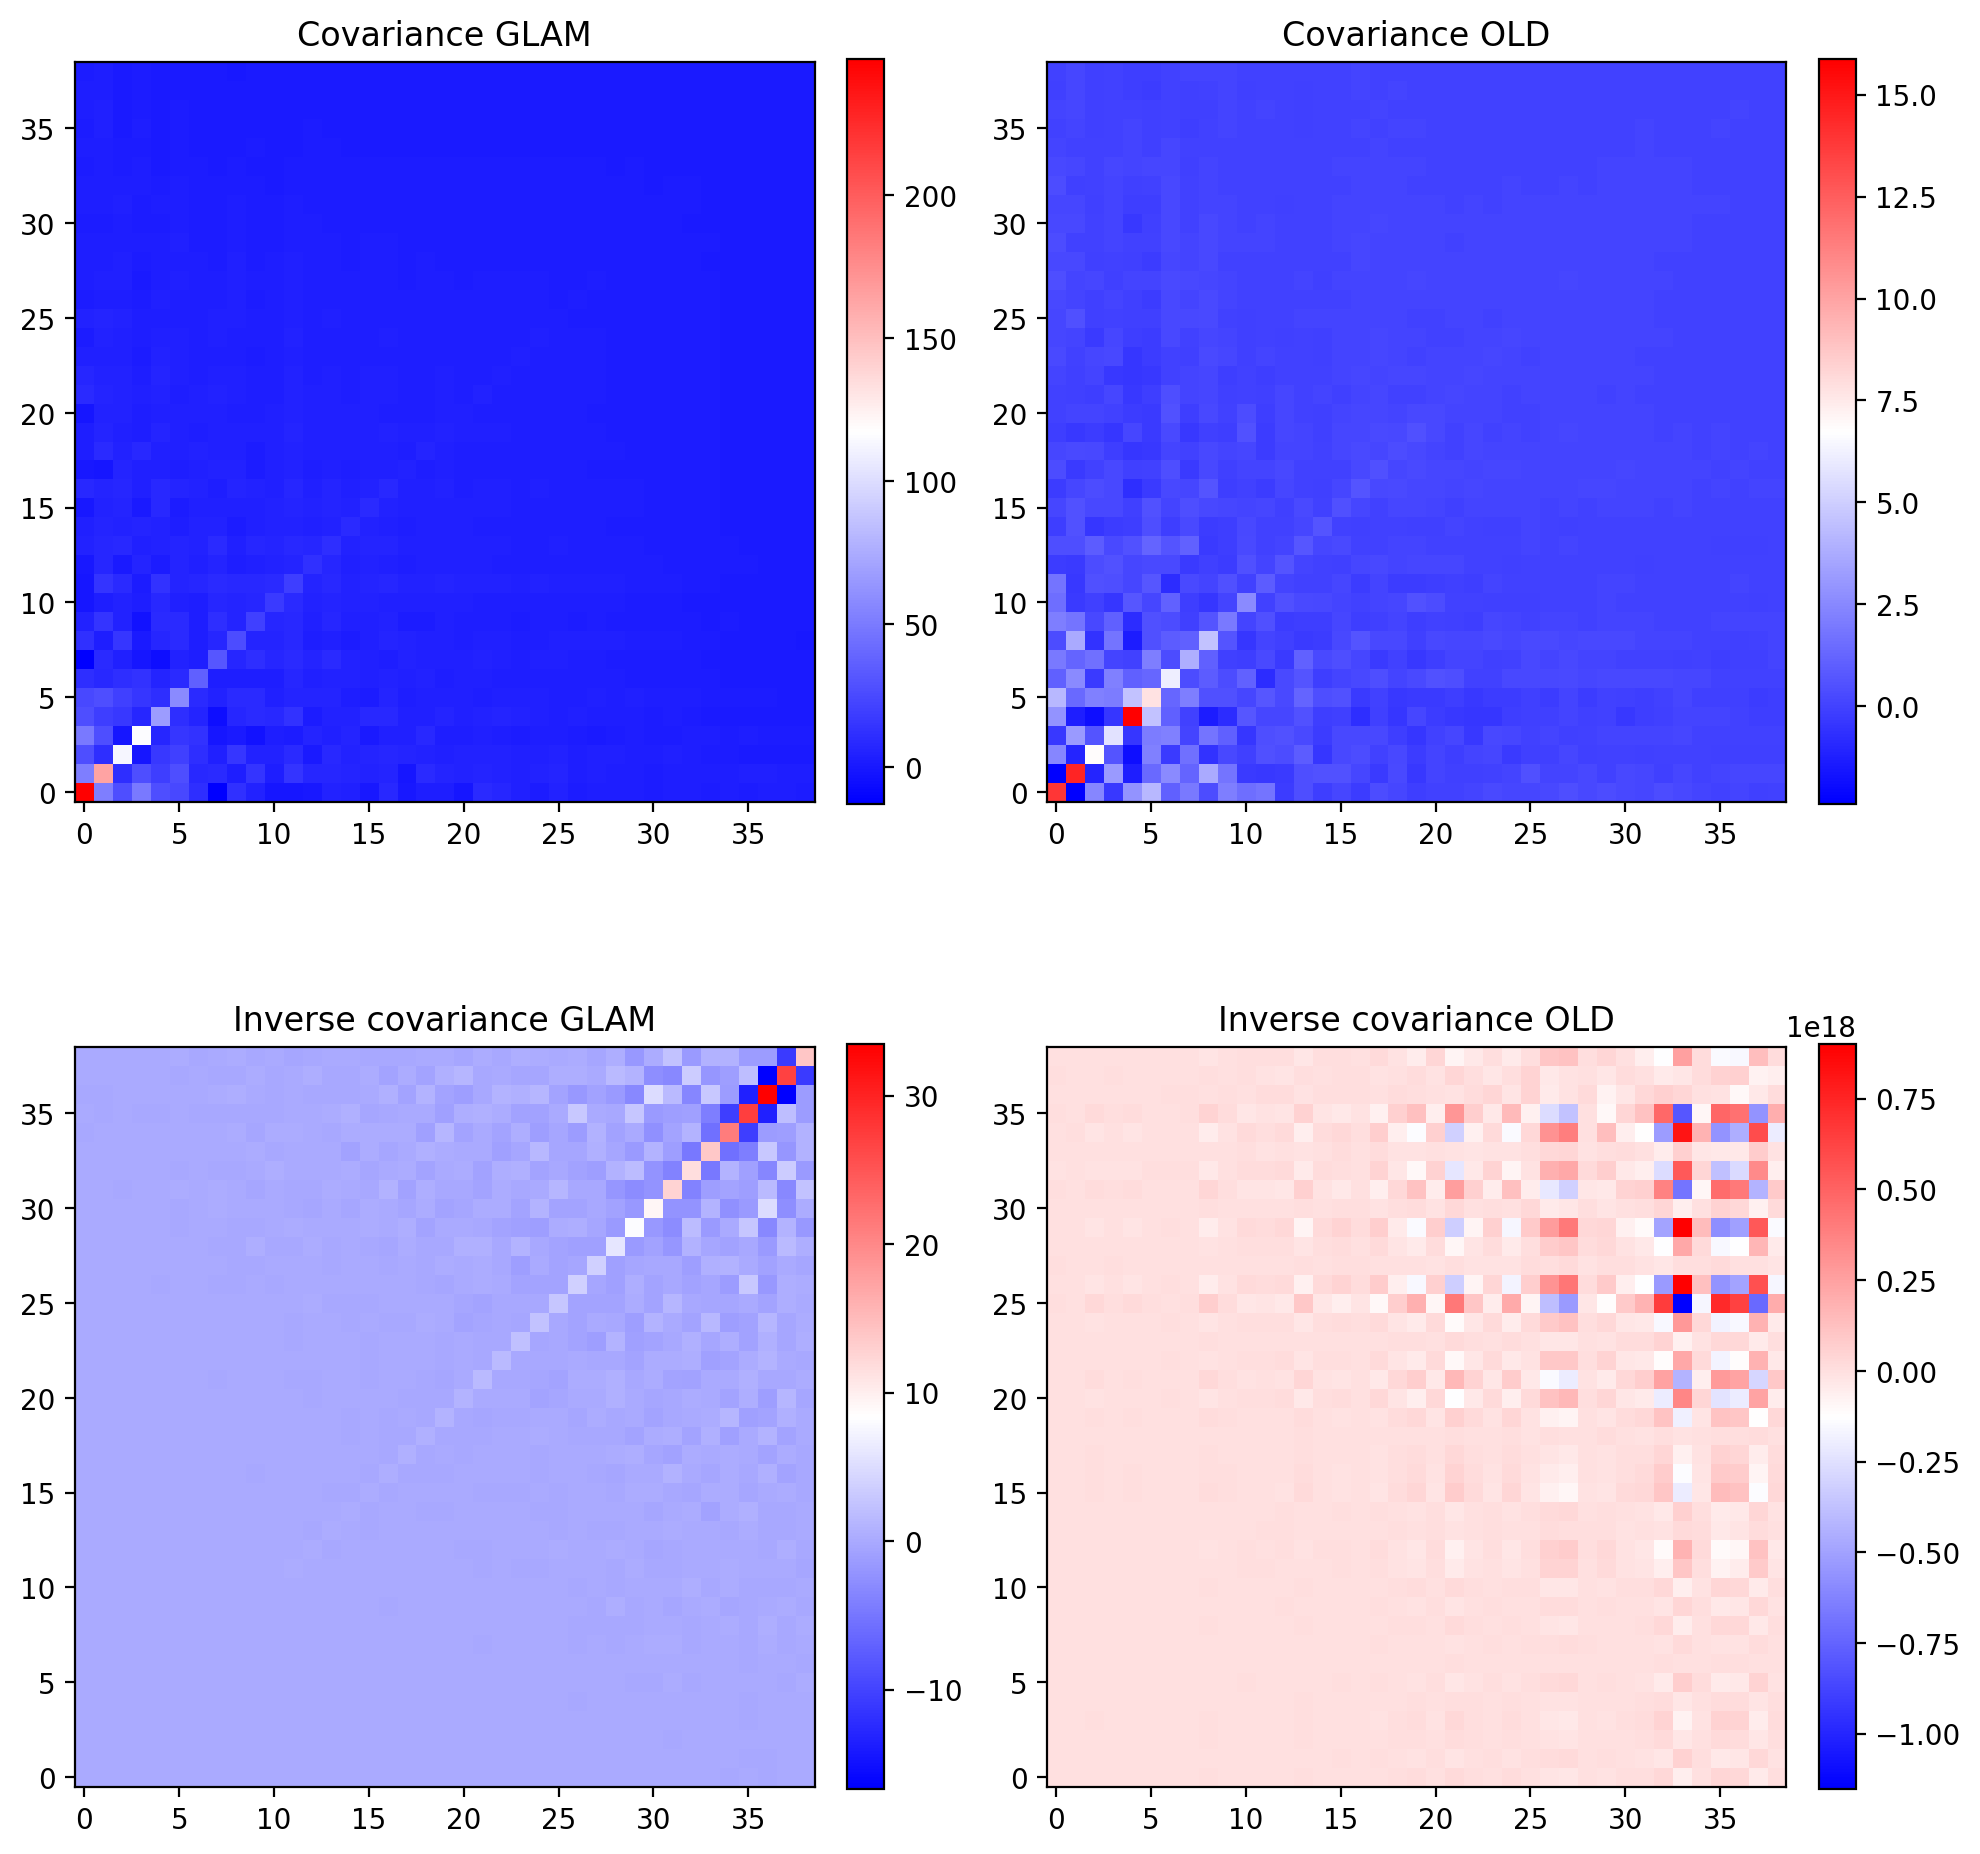
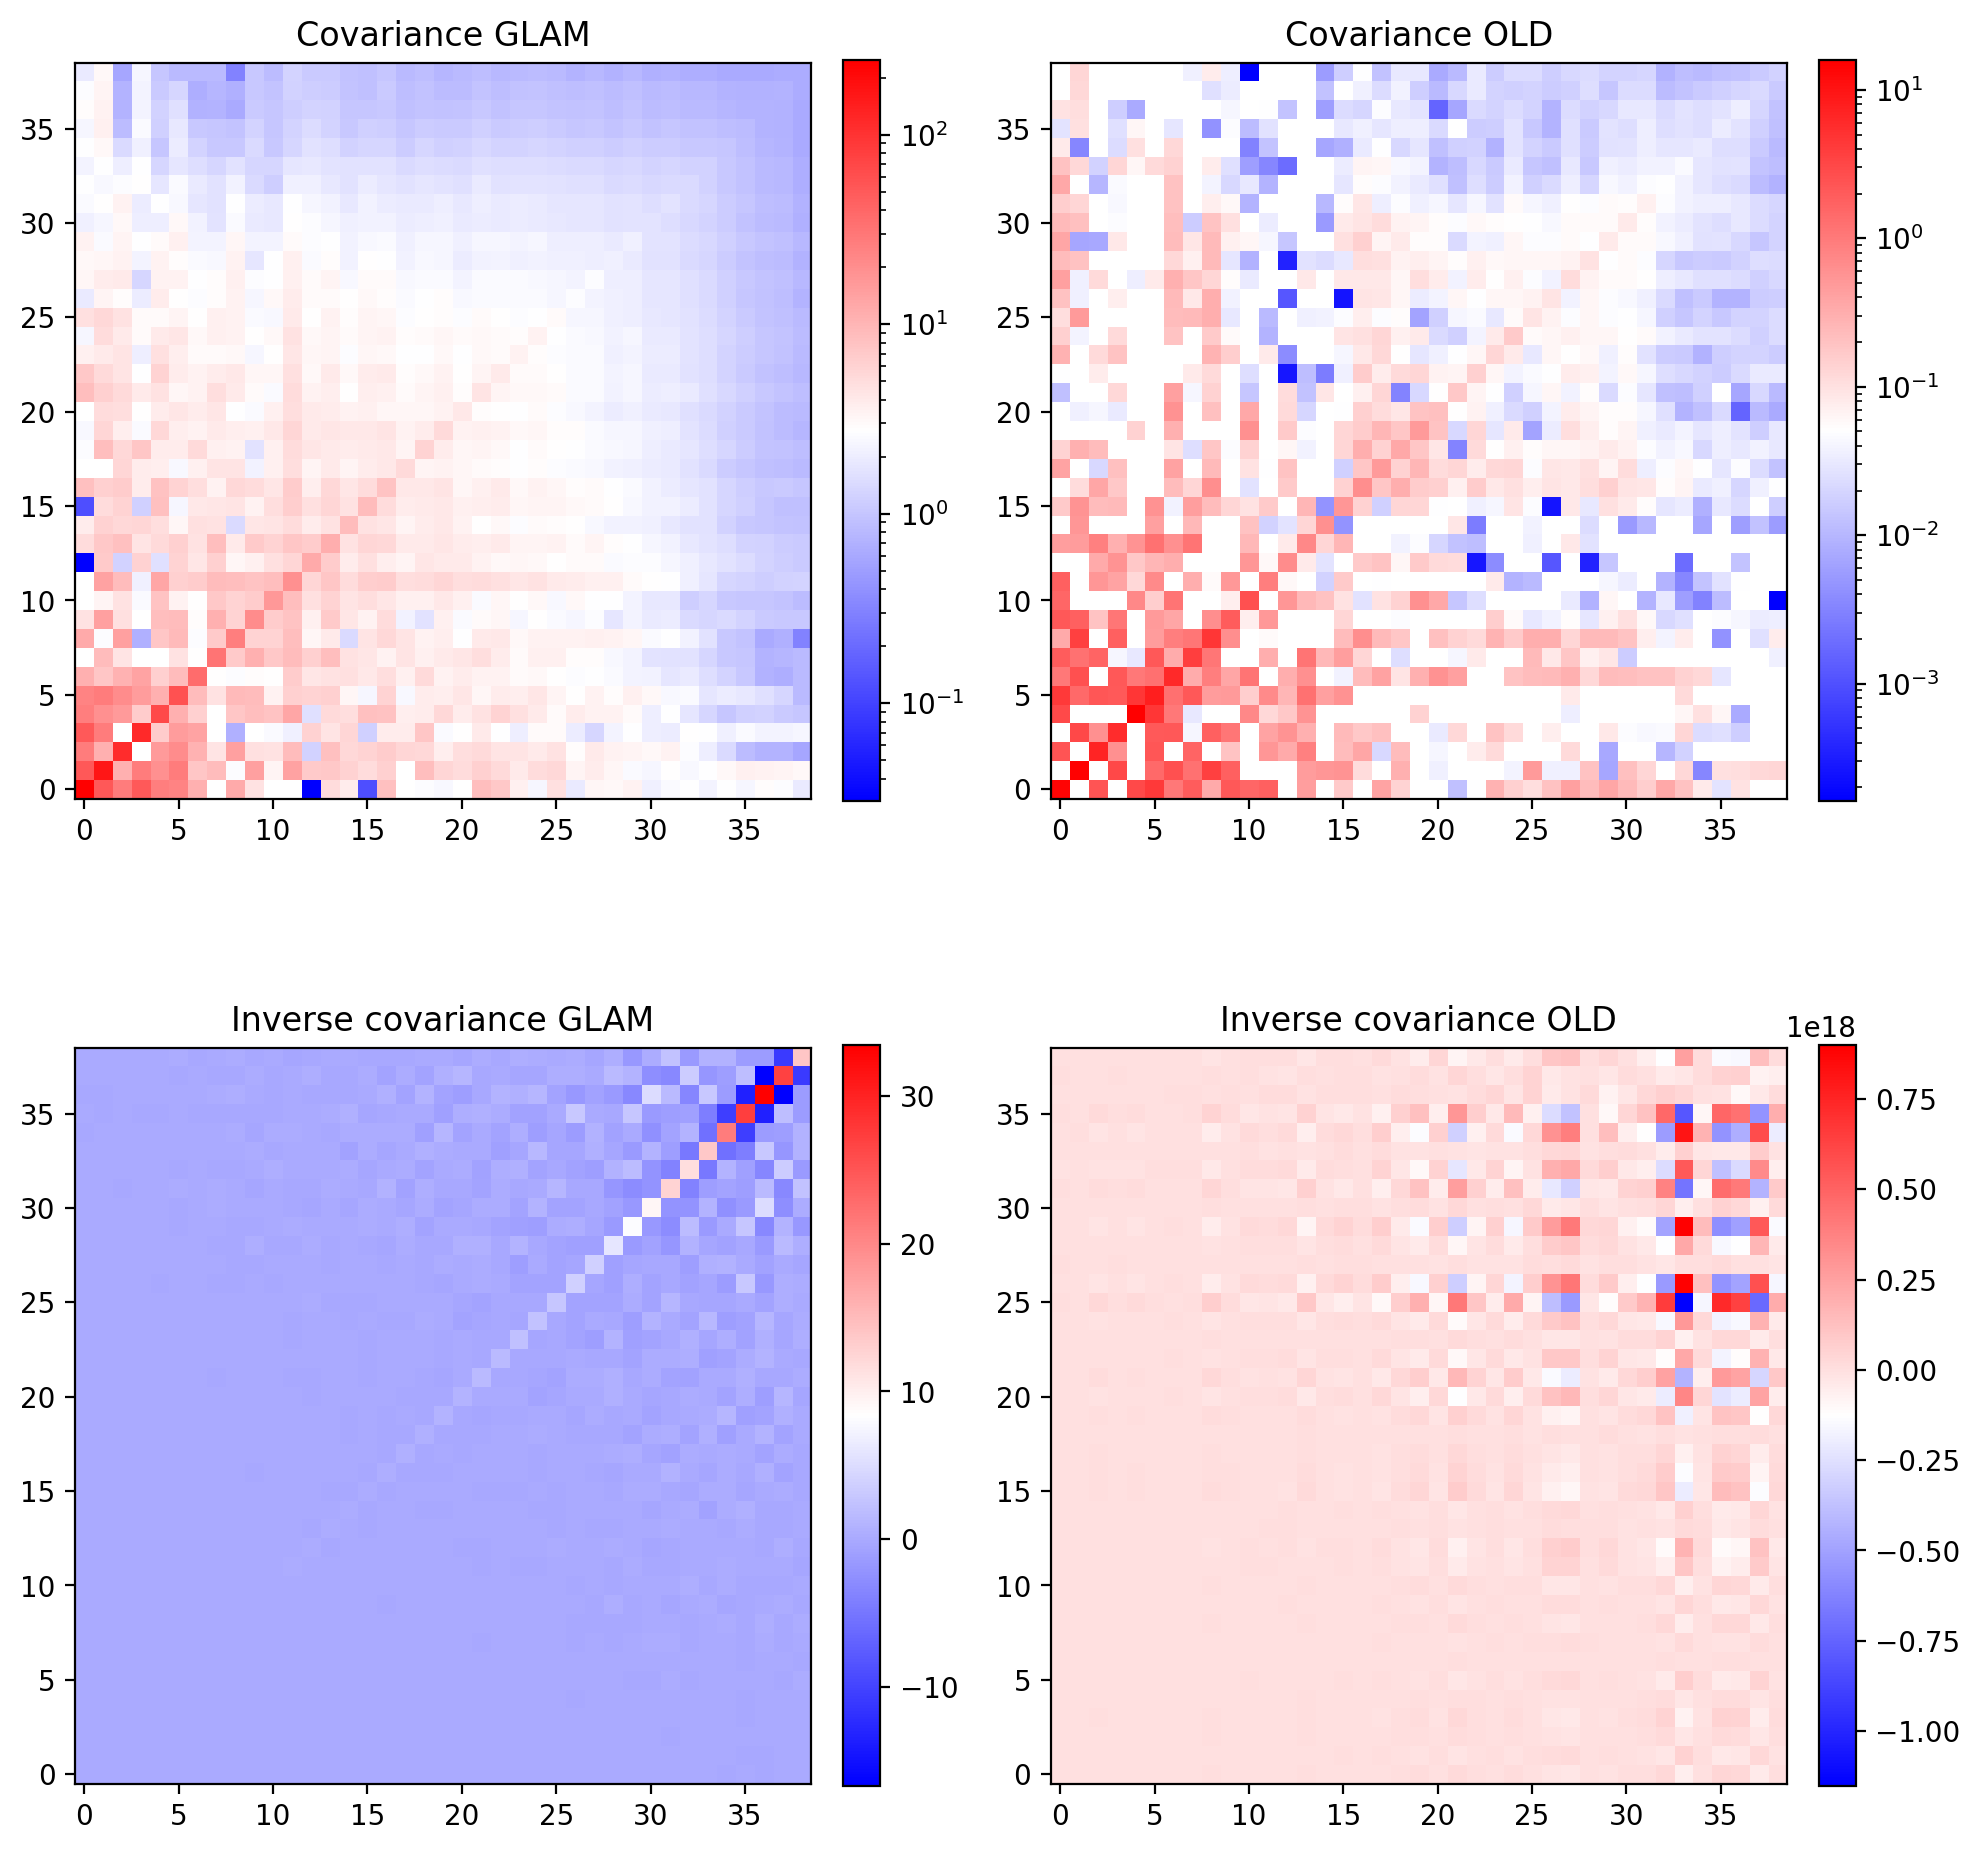
log scale to cov

diff --git a/HaloModel/HOD_and_cosmo_emulation/GLAM/cov_plot.py b/HaloModel/HOD_and_cosmo_emulation/GLAM/cov_plot.py
@@ -2,6 +2,7 @@ import numpy as np
 from pathlib import Path
 from mpl_toolkits.axes_grid1 import make_axes_locatable
 import matplotlib.pyplot as plt
+from matplotlib.colors import LogNorm 
 from matplotlib import gridspec
 
 DATAPATH     = Path(f"/mn/stornext/d5/data/vetleav/HOD_AbacusData/inference_data")
@@ -90,10 +91,12 @@ def compare_cov_sz_and_cov_GLAM(cov_GLAM, cov_OLD):
     ax2.set_title("Inverse covariance GLAM")
     ax3.set_title("Inverse covariance OLD")
 
-    im0 = ax0.imshow(cov_GLAM, origin="lower", cmap='bwr')
-    im1 = ax1.imshow(cov_OLD, origin="lower", cmap='bwr')
+    # im0 = ax0.imshow(np.log(cov_GLAM), origin="lower", cmap='bwr', interpolation="none")
+    im0 = ax0.imshow(cov_GLAM, origin="lower", cmap='bwr', norm=LogNorm())
+    im1 = ax1.imshow(cov_OLD, origin="lower", cmap='bwr', norm=LogNorm())
     im2 = ax2.imshow(cov_inv_GLAM, origin="lower", cmap='bwr')
     im3 = ax3.imshow(cov_inv_OLD, origin="lower", cmap='bwr')
+    
 
     fig.colorbar(im0, fraction=0.046, pad=0.04)
     fig.colorbar(im1, fraction=0.046, pad=0.04)
@@ -114,11 +117,21 @@ def compare_cov_sz_and_cov_GLAM(cov_GLAM, cov_OLD):
         fig.clf()
 
 
+def check_cov(cov):
+    cond = np.linalg.cond(cov)
+    eigenvalues, _ = np.linalg.eig(cov)
+    print(f"{eigenvalues=}")
+    print(f"Condition number: {cond}")
+    print()
+
 cov_sz, corr_sz = load_cov_corr("wp_fiducial_sz")
 cov_GLAM, corr_GLAM = load_cov_corr("wp_fiducial_MGGLAM")
 
-plot_cov_cov_inv(cov_GLAM)
-plot_corr(corr_GLAM)
+
+# check_cov(cov_sz)
+# check_cov(cov_GLAM)
+# plot_cov_cov_inv(cov_GLAM)
+# plot_corr(corr_GLAM)
 compare_cov_sz_and_cov_GLAM(cov_GLAM, cov_sz)
 
 
